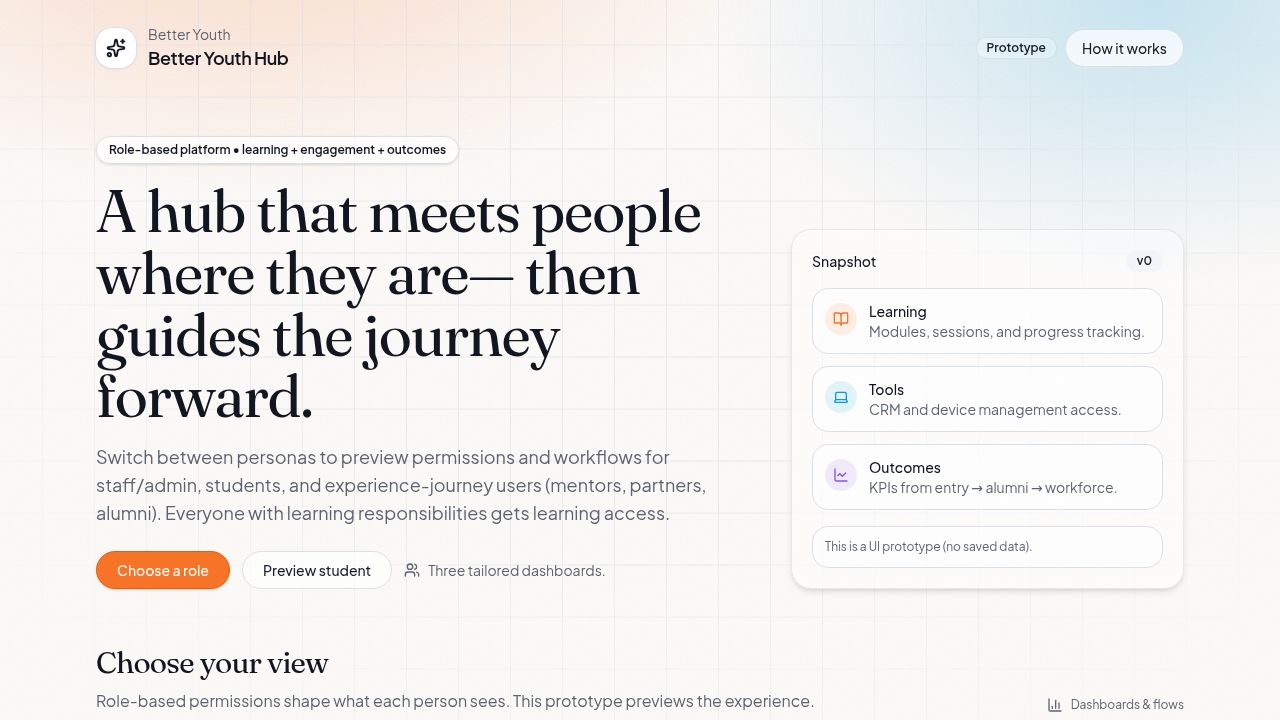
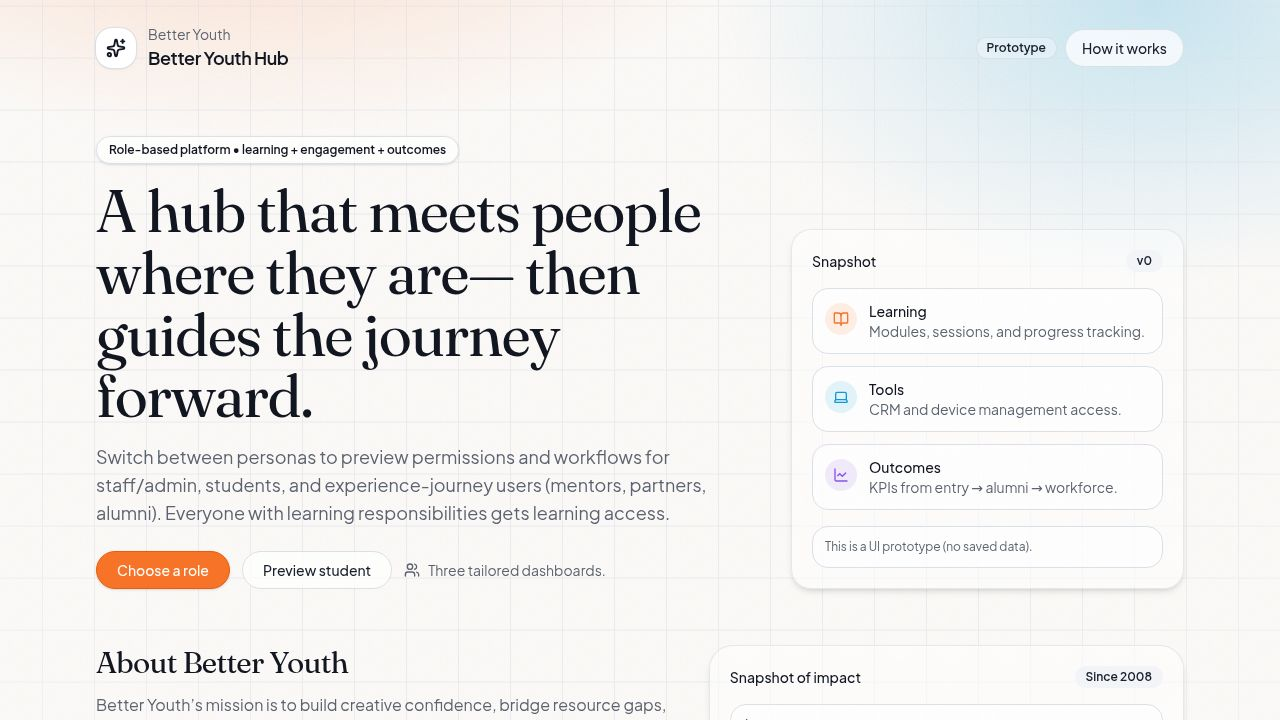
Add a role selection section to the homepage for users
Implements a new `RoleSelection` component in `home.tsx` which renders selectable role cards (Staff, Student, Alumni/Partner) and integrates it into the `HomePage` component, resolving the broken "Choose a Role" button functionality.

Replit-Commit-Author: Agent
Replit-Commit-Session-Id: 0bcb09aa-55da-42d0-bb43-d544020825d8
Replit-Commit-Checkpoint-Type: full_checkpoint
Replit-Commit-Event-Id: acecce04-a307-43f1-a6bc-4230f4bd87f2
Replit-Commit-Screenshot-Url: https://storage.googleapis.com/screenshot-production-us-central1/d81a8a4b-126d-4f0c-863e-fda2e6482088/0bcb09aa-55da-42d0-bb43-d544020825d8/PB76iAJ
Replit-Helium-Checkpoint-Created: true

Changed region(s): [[0.0625, 0.8861, 0.6875, 1.0], [0.8125, 0.9778, 0.9375, 1.0], [0.8438, 0.9167, 0.9062, 0.9472]]

diff --git a/client/src/pages/home.tsx b/client/src/pages/home.tsx
@@ -322,6 +322,59 @@ function About() {
   );
 }
 
+function RoleSelection() {
+  return (
+    <section id="roles" className="pt-10 md:pt-14" data-testid="section-roles">
+      <h2 className="font-serif text-2xl md:text-3xl tracking-tight" data-testid="text-roles-title">
+        Choose Your Role
+      </h2>
+      <p className="mt-3 text-sm md:text-base text-muted-foreground max-w-2xl" data-testid="text-roles-subtitle">
+        Select your role to access the personalized dashboard with features tailored to your needs.
+      </p>
+
+      <div className="mt-6 grid gap-4 md:grid-cols-3" data-testid="grid-roles">
+        {(Object.keys(roleConfig) as RoleKey[]).map((key) => {
+          const role = roleConfig[key];
+          return (
+            <Link key={key} href={role.href}>
+              <Card
+                className="group cursor-pointer rounded-3xl border-border/70 bg-white/75 backdrop-blur supports-[backdrop-filter]:bg-white/55 shadow-sm hover:shadow-md hover:bg-white/90 transition-all duration-200"
+                data-testid={`card-role-${key}`}
+              >
+                <div className="p-5">
+                  <div className="flex items-center gap-3">
+                    <div className="rounded-xl bg-[hsl(var(--primary)/0.12)] p-2.5 group-hover:bg-[hsl(var(--primary)/0.18)] transition-colors">
+                      {role.icon}
+                    </div>
+                    <div className="text-base font-semibold" data-testid={`text-role-${key}-title`}>
+                      {role.title}
+                    </div>
+                  </div>
+                  <p className="mt-3 text-sm text-muted-foreground" data-testid={`text-role-${key}-desc`}>
+                    {role.subtitle}
+                  </p>
+                  <div className="mt-4 flex flex-wrap gap-2">
+                    {role.chips.map((chip, i) => (
+                      <Badge
+                        key={i}
+                        variant="secondary"
+                        className="rounded-full bg-white/70 border border-border text-xs"
+                        data-testid={`badge-role-${key}-chip-${i}`}
+                      >
+                        {chip}
+                      </Badge>
+                    ))}
+                  </div>
+                </div>
+              </Card>
+            </Link>
+          );
+        })}
+      </div>
+    </section>
+  );
+}
+
 function Footer() {
   return (
     <footer className="py-10">
@@ -356,6 +409,7 @@ export default function HomePage() {
 
         <Hero />
         <About />
+        <RoleSelection />
         <Footer />
       </div>
     </div>
